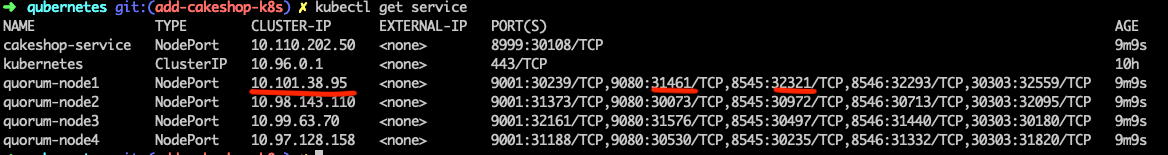
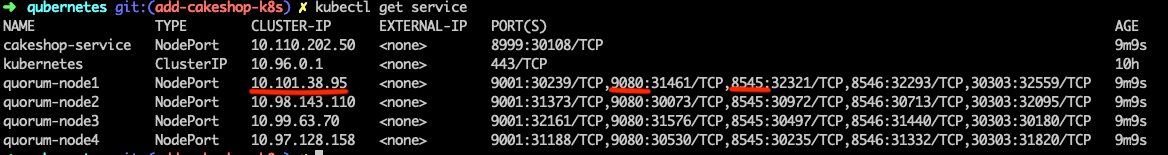
Fixing docs and png.

Changed region(s): [[0.524, 0.5419, 0.7089, 0.6194], [0.2158, 0.5677, 0.3082, 0.6452]]

diff --git a/docs/cakeshop.md b/docs/cakeshop.md
@@ -47,6 +47,9 @@ $> echo $(minikube ip):30108
 192.168.64.25:30108
 ```
 
+## If Running Docker Desktop K8s
+* Your URL will be `localhost:NodePort`, e.g. `localhost:30108`
+
 ## Open In Browser And Select "Manage Nodes" (upper right corner)
 ![cakeshop-manage-nodes](resources/cakeshop-managed-node-ui.png)
 
@@ -64,5 +67,5 @@ $> kubectl get service
 ![cakeshop-get-node-urls](resources/cake-k8s-get-node-urls.png)
 
 ## Add Nodes To Cakeshop
-* Use the `CLUSTER-IP` and the `NodePorts` for geth and tessera
+* Use the `CLUSTER-IP` and the cluster ports for geth (default `8545`) and tessera (default `9080`)
 ![cakeshop-add-node1](resources/cakeshop-add-node1.png)
